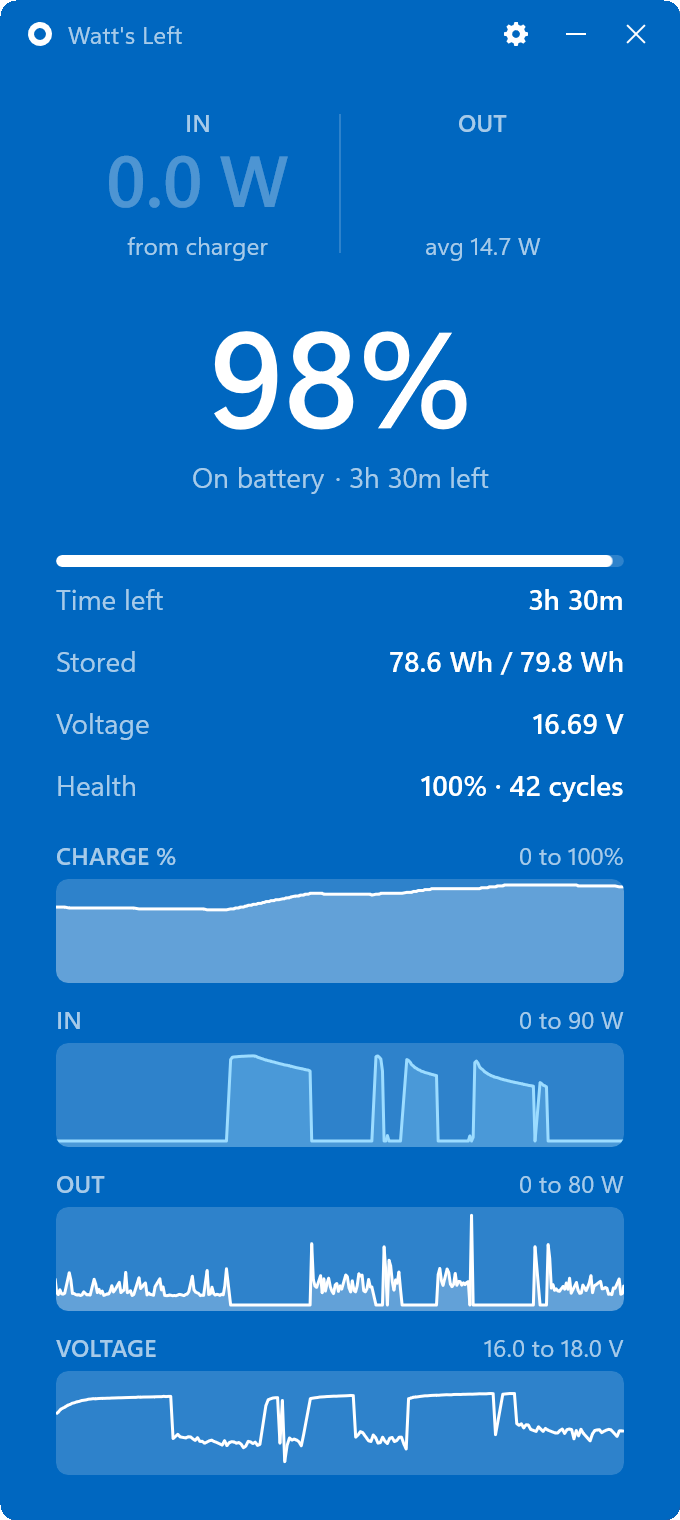
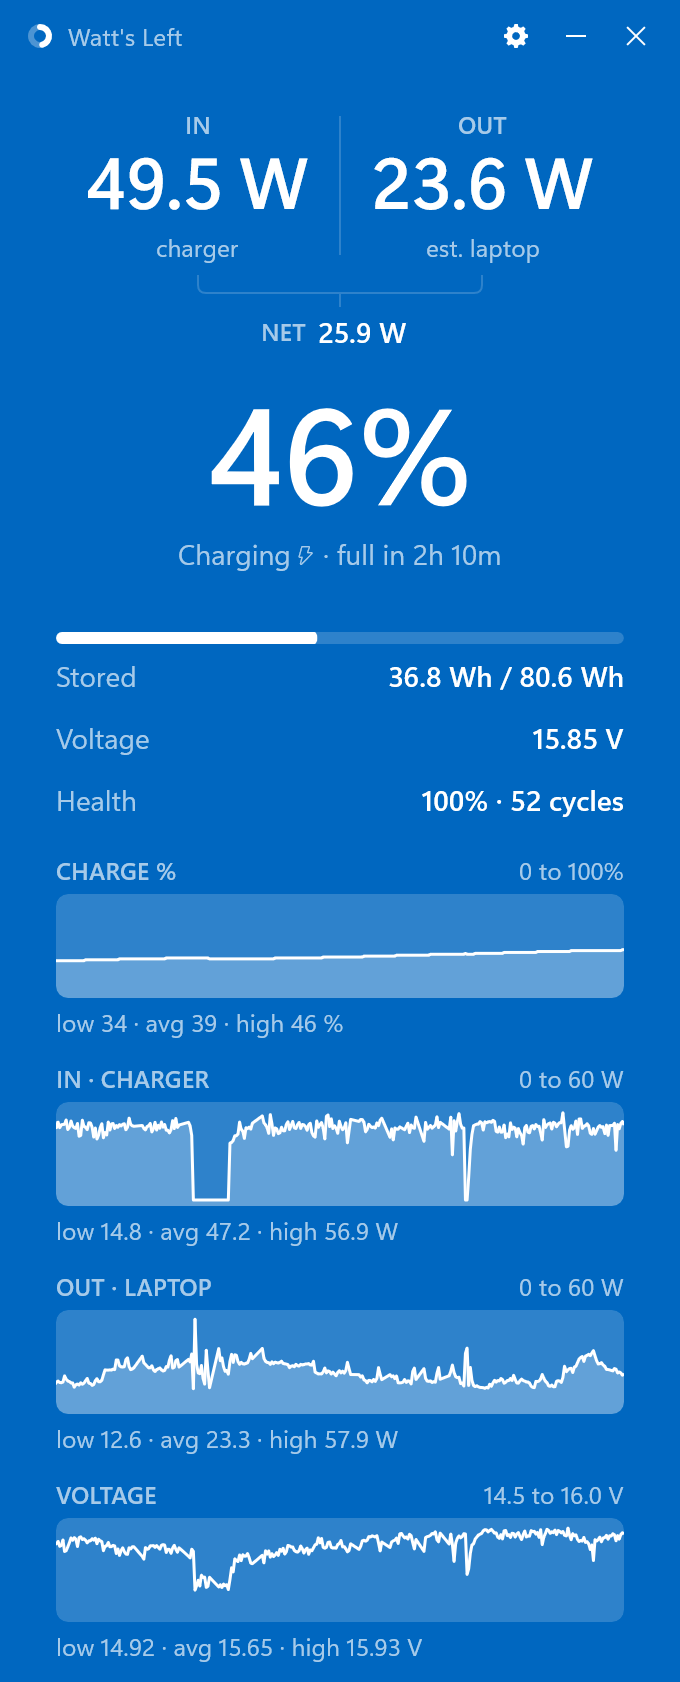
README and screenshots for 1.1: IN / OUT / NET, which laptops it works on
Claude-Session: https://claude.ai/code/session_01BfWnyjHbq2vtwBEu2N7cpt

diff --git a/README.md b/README.md
@@ -20,13 +20,17 @@
 
 ## What it shows
 
-- **IN** &nbsp;watts flowing from the charger into the battery. Higher is faster charging.
-- **OUT** &nbsp;watts the laptop is using. On battery that's what the battery is losing; on the charger it's estimated from the processor's own power meter, and the caption under IN says what the charger is putting out in total, so you can see at a glance whether a charger is keeping up.
-- The state line says so plainly: **Charging**, **Plugged in · holding**, or **Plugged in · draining** with a time left when the charger can't keep up.
-- **Time left** &nbsp;stored energy divided by your average draw over the last five minutes, refreshed every thirty seconds.
+- **IN** &nbsp;watts the charger is putting out.
+- **OUT** &nbsp;watts the laptop is using. Exact on battery; estimated while plugged in.
+- **NET** &nbsp;IN minus OUT: what's left for the battery. Positive and it's filling; negative and the laptop is draining even though it's plugged in, which the state line says plainly: **Plugged in · draining · 1h 20m left**. NET is measured directly by the battery, so it's exact even when IN and OUT are estimates.
+- **Time to full** or **time left**, from a five-minute average, refreshed every thirty seconds.
 - **Stored energy** in watt-hours, **voltage**, **health** against design capacity, and **cycle count**.
-- **Thirty-minute graphs** of charge, watts in, watts out and voltage, kept across restarts.
-- The live **percent in your tray icon.** Hover any number for a one-sentence explanation.
+- **Thirty-minute graphs** of charge, charger watts, laptop watts and voltage, kept across restarts.
+- Hover any number for a two-sentence explanation in plain words.
+
+## Which laptops
+
+Any Windows laptop with a battery: Windows 11 or Windows 10 from version 2004, Intel, AMD or Snapdragon, x64 or ARM64, two batteries included. Laptops whose firmware reports no charge rate (many HP consumer models ship with it off in the BIOS, so other tools show 0 W) get their watts from how fast the stored energy moves, with a "measuring" state instead of a fake zero. The plugged-in IN and OUT figures use the processor's own power meter, which Windows 11 exposes on Intel and AMD machines; elsewhere they show a dash with the reason on hover, and NET works everywhere.
 
 ## Overview
 
@@ -42,14 +46,13 @@ installer each carry everything they need, with nothing else to set up.
 
 Windows itself only shows a percent. Watt's Left reads the battery hardware directly through
 the Windows battery interface (`IOCTL_BATTERY_QUERY_STATUS`, which reports the rate in
-milliwatts) four times a second, and turns it into the numbers above. Some laptops, many HP
-consumer models among them, ship with rate reporting switched off in the BIOS and hand every
-tool a flat zero; on those, Watt's Left works the watts out from how fast the stored energy is
-moving instead, and says so. While plugged in, the battery can't see what the laptop itself is
-using, so Watt's Left reads the processor's power meter (Windows 11 exposes it on Intel and AMD
-machines) and adds what the rest of the machine was measured to cost while last on battery; on a
-laptop without that meter the plugged-in estimate simply isn't shown. The result is one small
-window that stays out of the way, plus the live percent on your tray icon.
+milliwatts) four times a second; that rate is NET. While plugged in, the battery can't see what
+the laptop itself is using, so Watt's Left reads the processor's power meter (the Energy Meter
+performance counters, which Windows 11 exposes on Intel and AMD machines, no driver, no admin)
+and adds what the rest of the machine was measured to cost while last on battery: that's OUT,
+and OUT plus NET is IN. It needs a couple of minutes on battery once to learn the machine, and
+keeps refining. The result is one small window that stays out of the way, plus the app in your
+tray.
 
 ## Privacy
 
